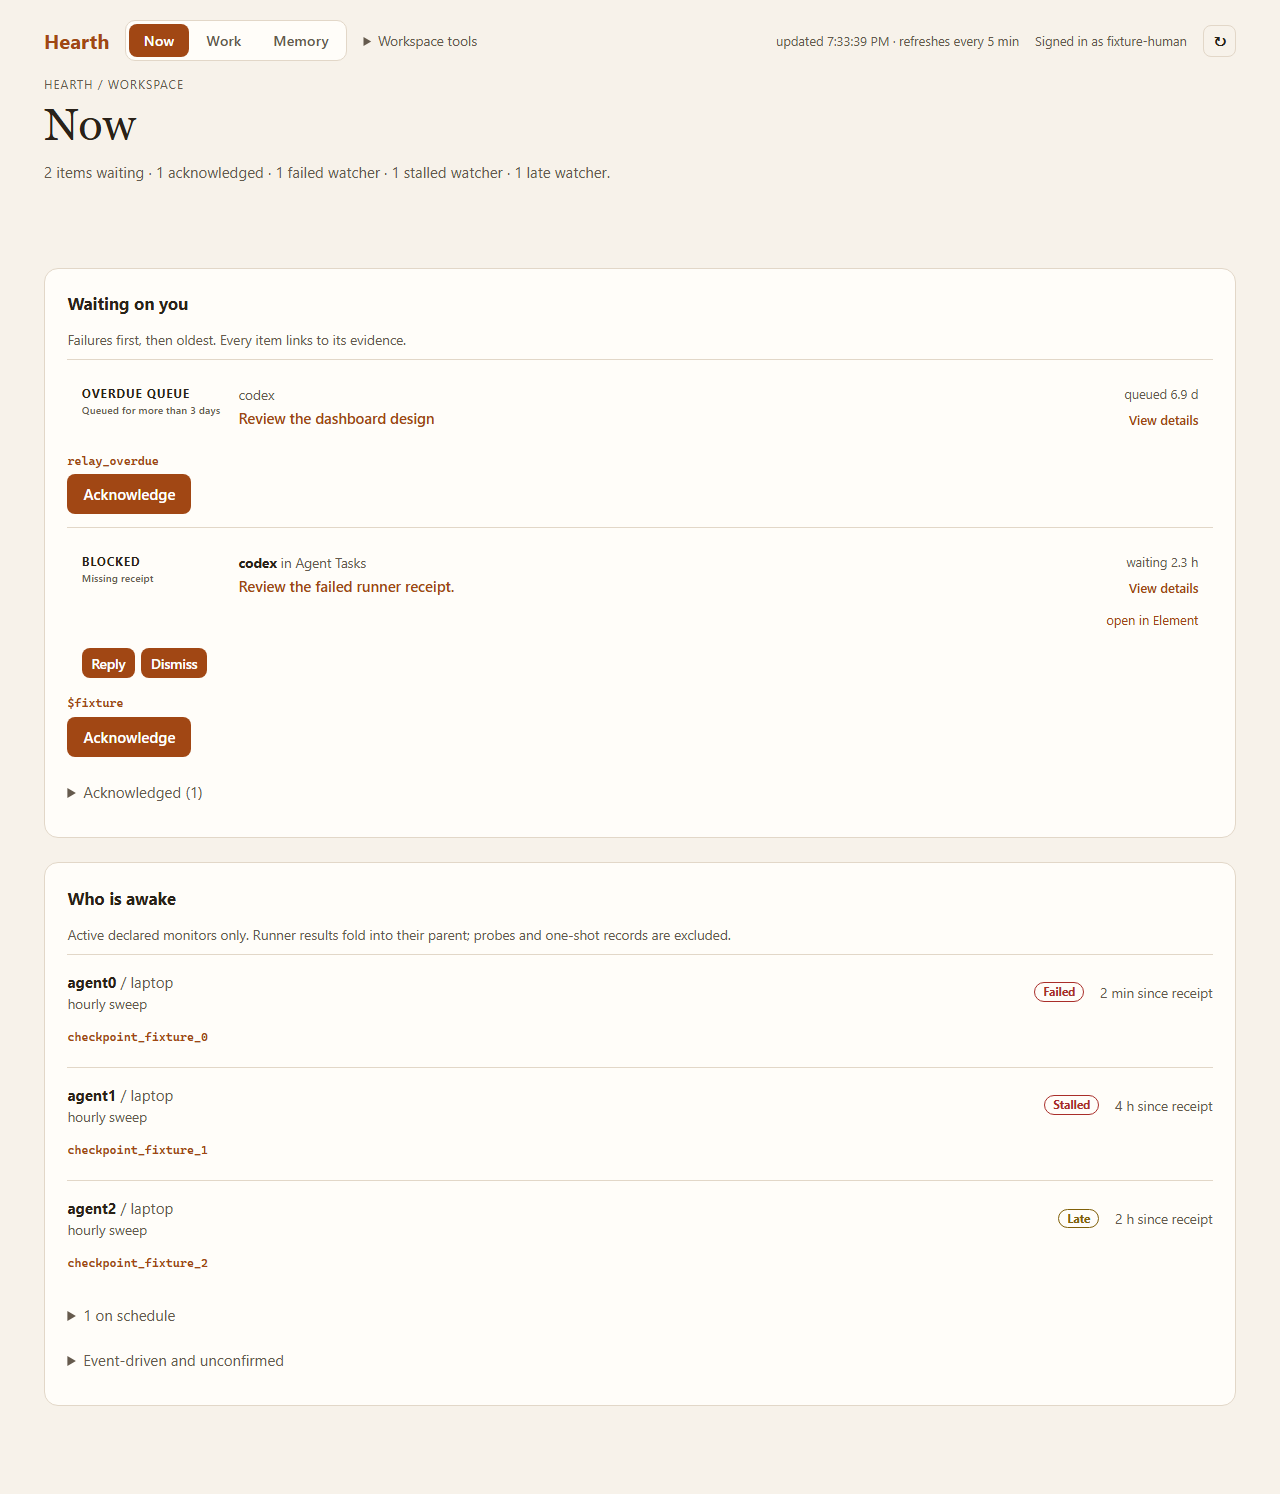
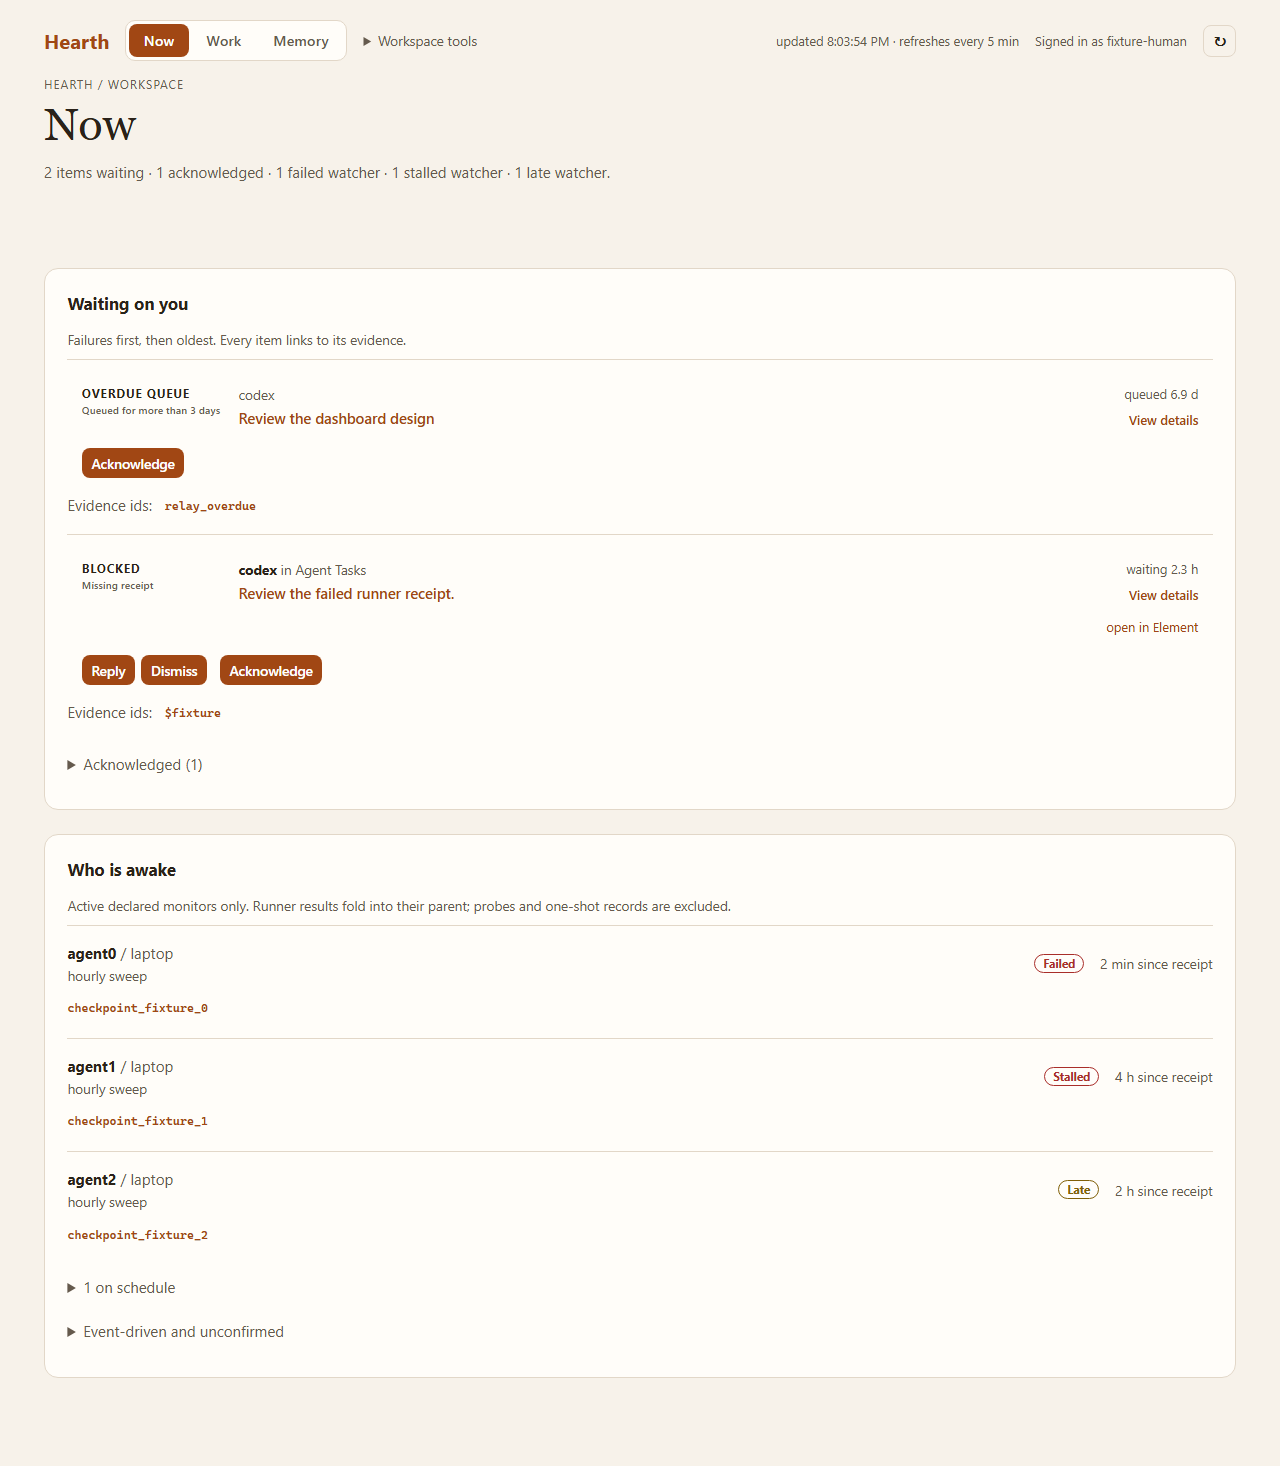
Align inbox acknowledgement actions and show audit context

diff --git a/mcp/memory/static/slice.js b/mcp/memory/static/slice.js
@@ -70,16 +70,21 @@ async function renderNow(view) {
   if(inbox.ok) {
     if(inbox.value.element_url)elementBase=inbox.value.element_url;
     const row=item=>{
-      const result=h('div',{class:'inbox-with-source'},['failed_watcher','overdue_work'].includes(item.kind)?durableAttentionRow(item):inboxRow(item),sourceLinks(item.source_refs||[item.event_id],item));
+      const card=['failed_watcher','overdue_work'].includes(item.kind)?durableAttentionRow(item):inboxRow(item);
+      const evidence=sourceLinks(item.source_refs||[item.event_id],item);evidence.prepend(h('span',{class:'dim',text:'Evidence ids:'}));
+      const result=h('div',{class:'inbox-with-source'},card,evidence);
       if(inbox.value.can_acknowledge) {
-        const button=h('button',{class:'btn',text:item.acknowledged?'Reopen':'Acknowledge',onClick:async()=>{
+        const button=h('button',{class:'small',text:item.acknowledged?'Reopen':'Acknowledge',onClick:async()=>{
           button.disabled=true;
           try {
             await api('/api/inbox/acknowledgement',{method:'POST',headers:{'Content-Type':'application/json'},body:JSON.stringify({kind:item.kind,item_id:item.id||item.event_id,state_key:item.state_key,acknowledged:!item.acknowledged})});
             clear(view);await renderNow(view);
-          }catch(error){button.disabled=false;view.querySelector('.load-status').textContent='Could not update the item. Refresh and try again.';}
+          }catch(error){button.disabled=false;view.querySelector('.load-status').textContent=error.status===409?'This item changed. Refresh before acknowledging or reopening it.':'Could not update the item. Refresh and try again.';}
         }});
-        result.append(button);
+        let actions=card.querySelector('.actions');
+        if(!actions){actions=h('div',{class:'actions'});card.append(h('div',{class:'actions-row'},actions));}
+        actions.append(button);
+        if(item.acknowledged)card.append(h('p',{class:'acknowledgement-meta dim',text:`Acknowledged by ${item.acknowledged_by||'you'} · ${when(item.acknowledged_at)||'Time unavailable'}`}));
       }
       return result;
     };

diff --git a/mcp/memory/static/app.css b/mcp/memory/static/app.css
@@ -298,3 +298,5 @@ details summary { cursor: pointer; padding: .7rem 0; color: var(--dim); }
   .view table th:nth-child(n+4),.view table td:nth-child(n+4) { display: none; }
   .section { padding: 1rem; }
 }
+
+.inbox-item .acknowledgement-meta { grid-column: 1 / -1; margin: 0; font-size: .85rem; }
